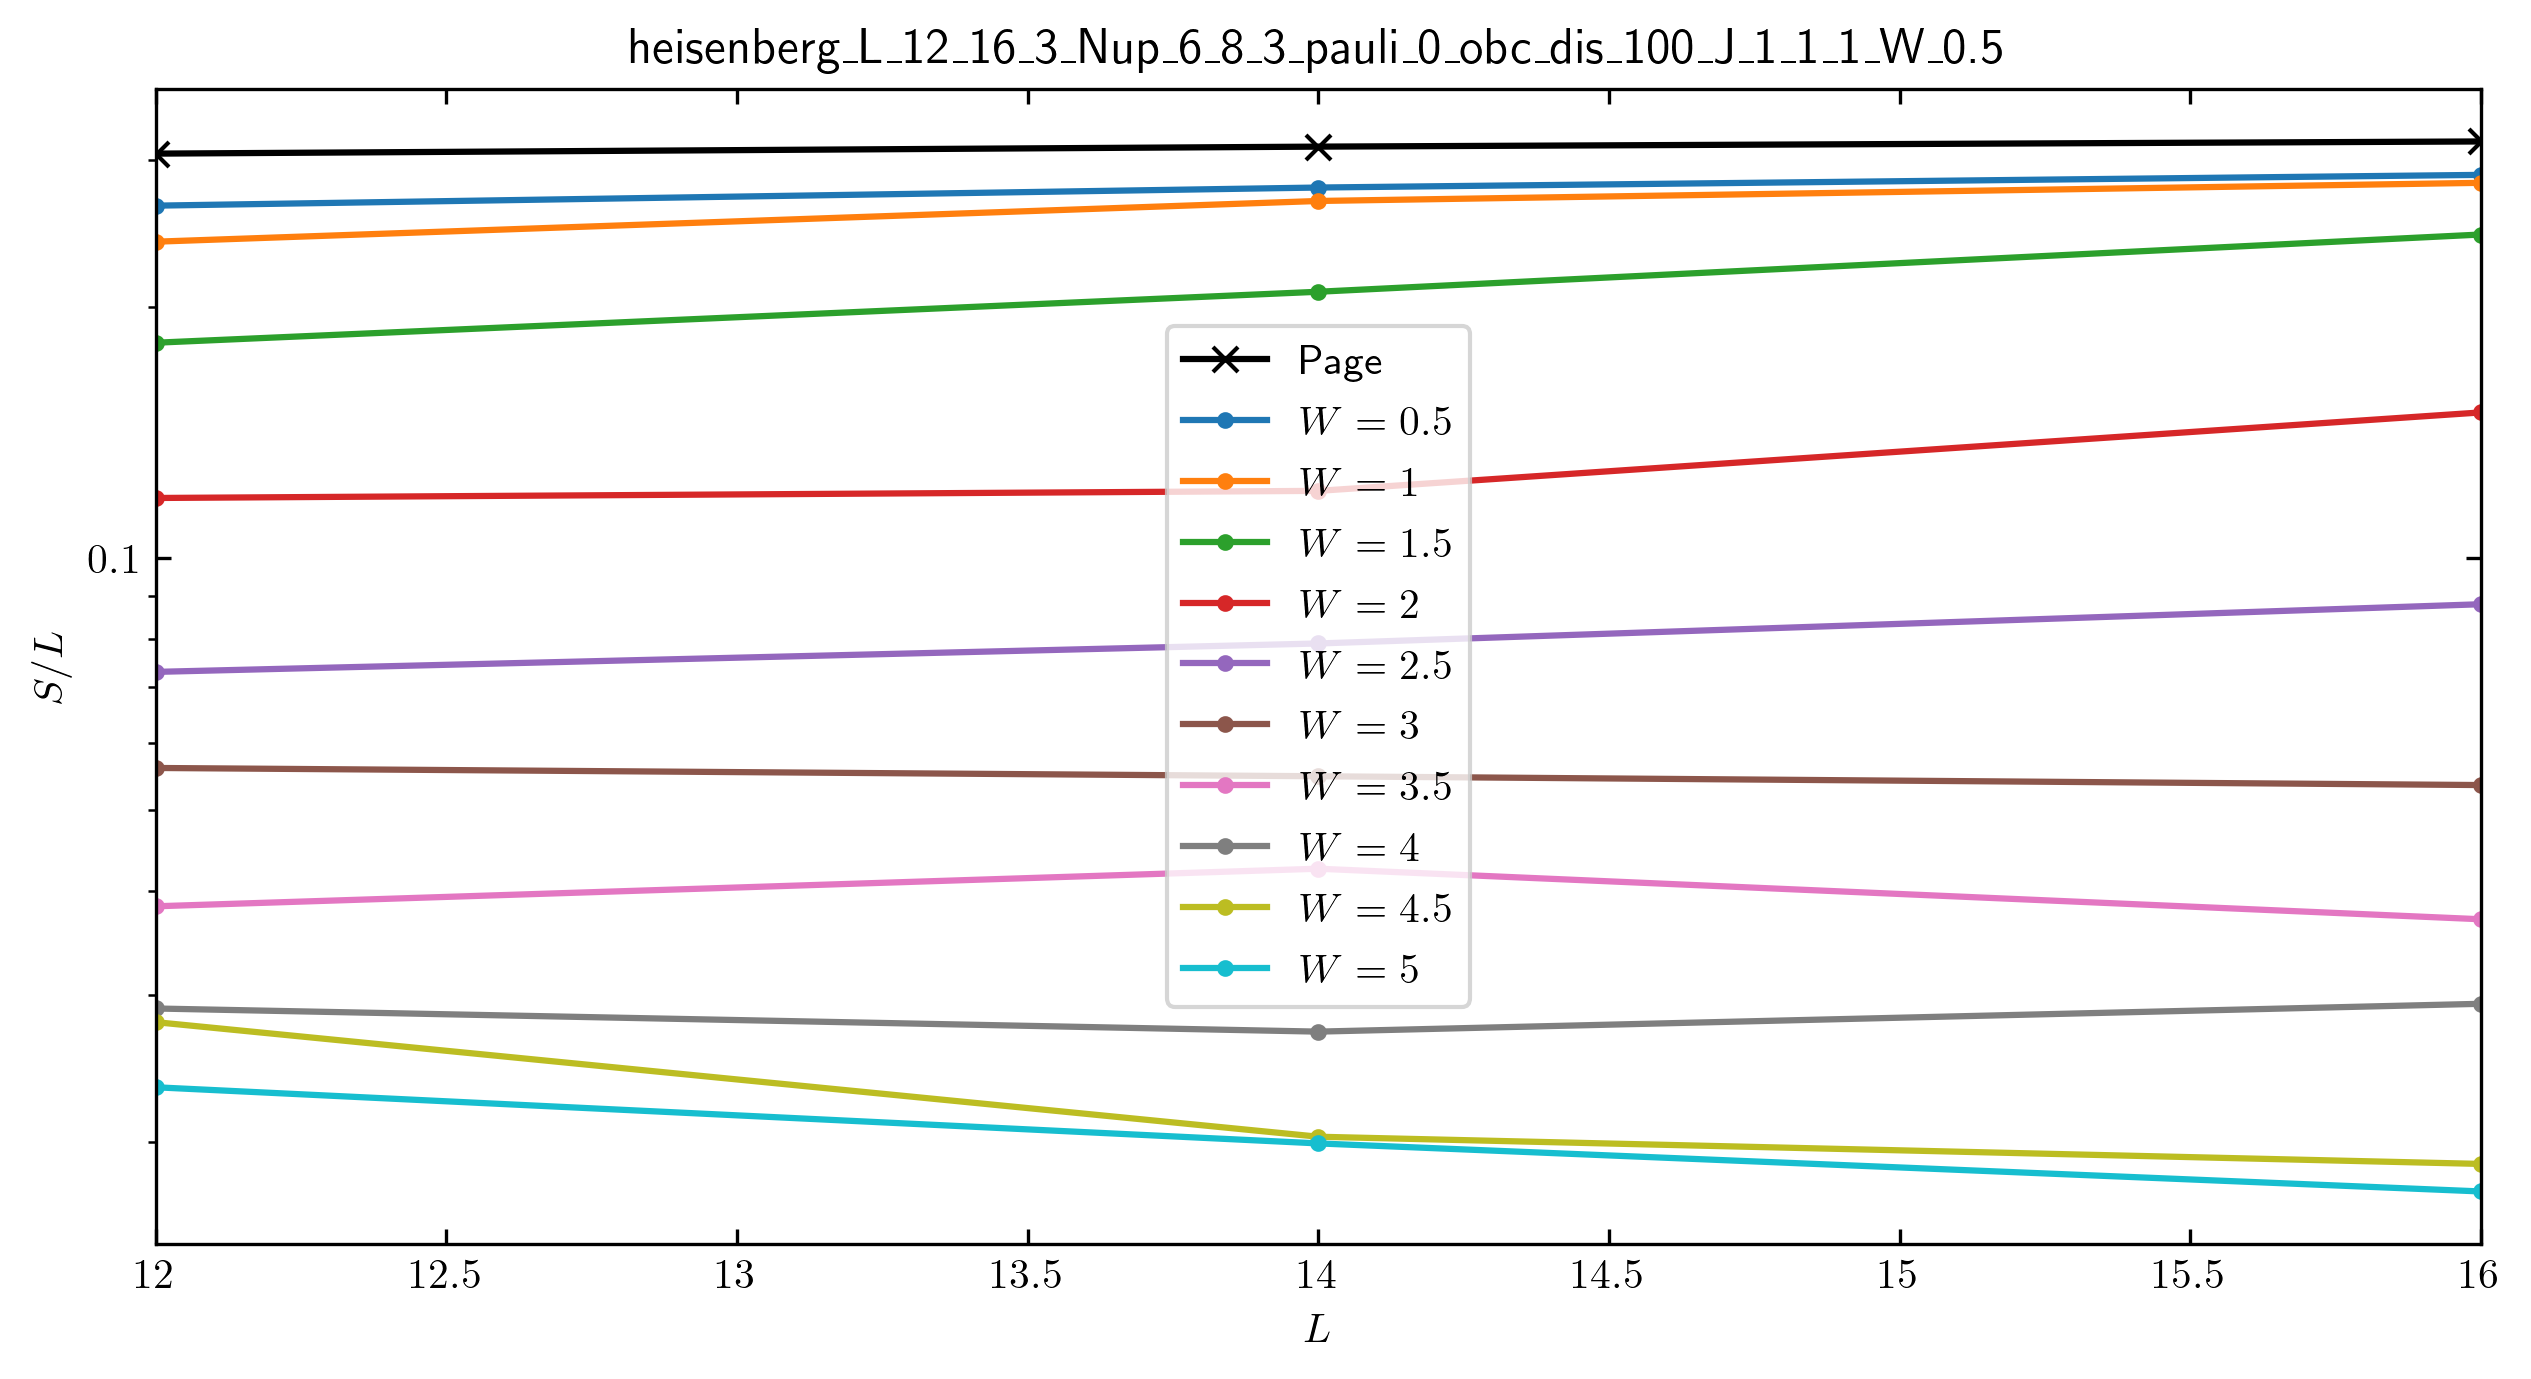
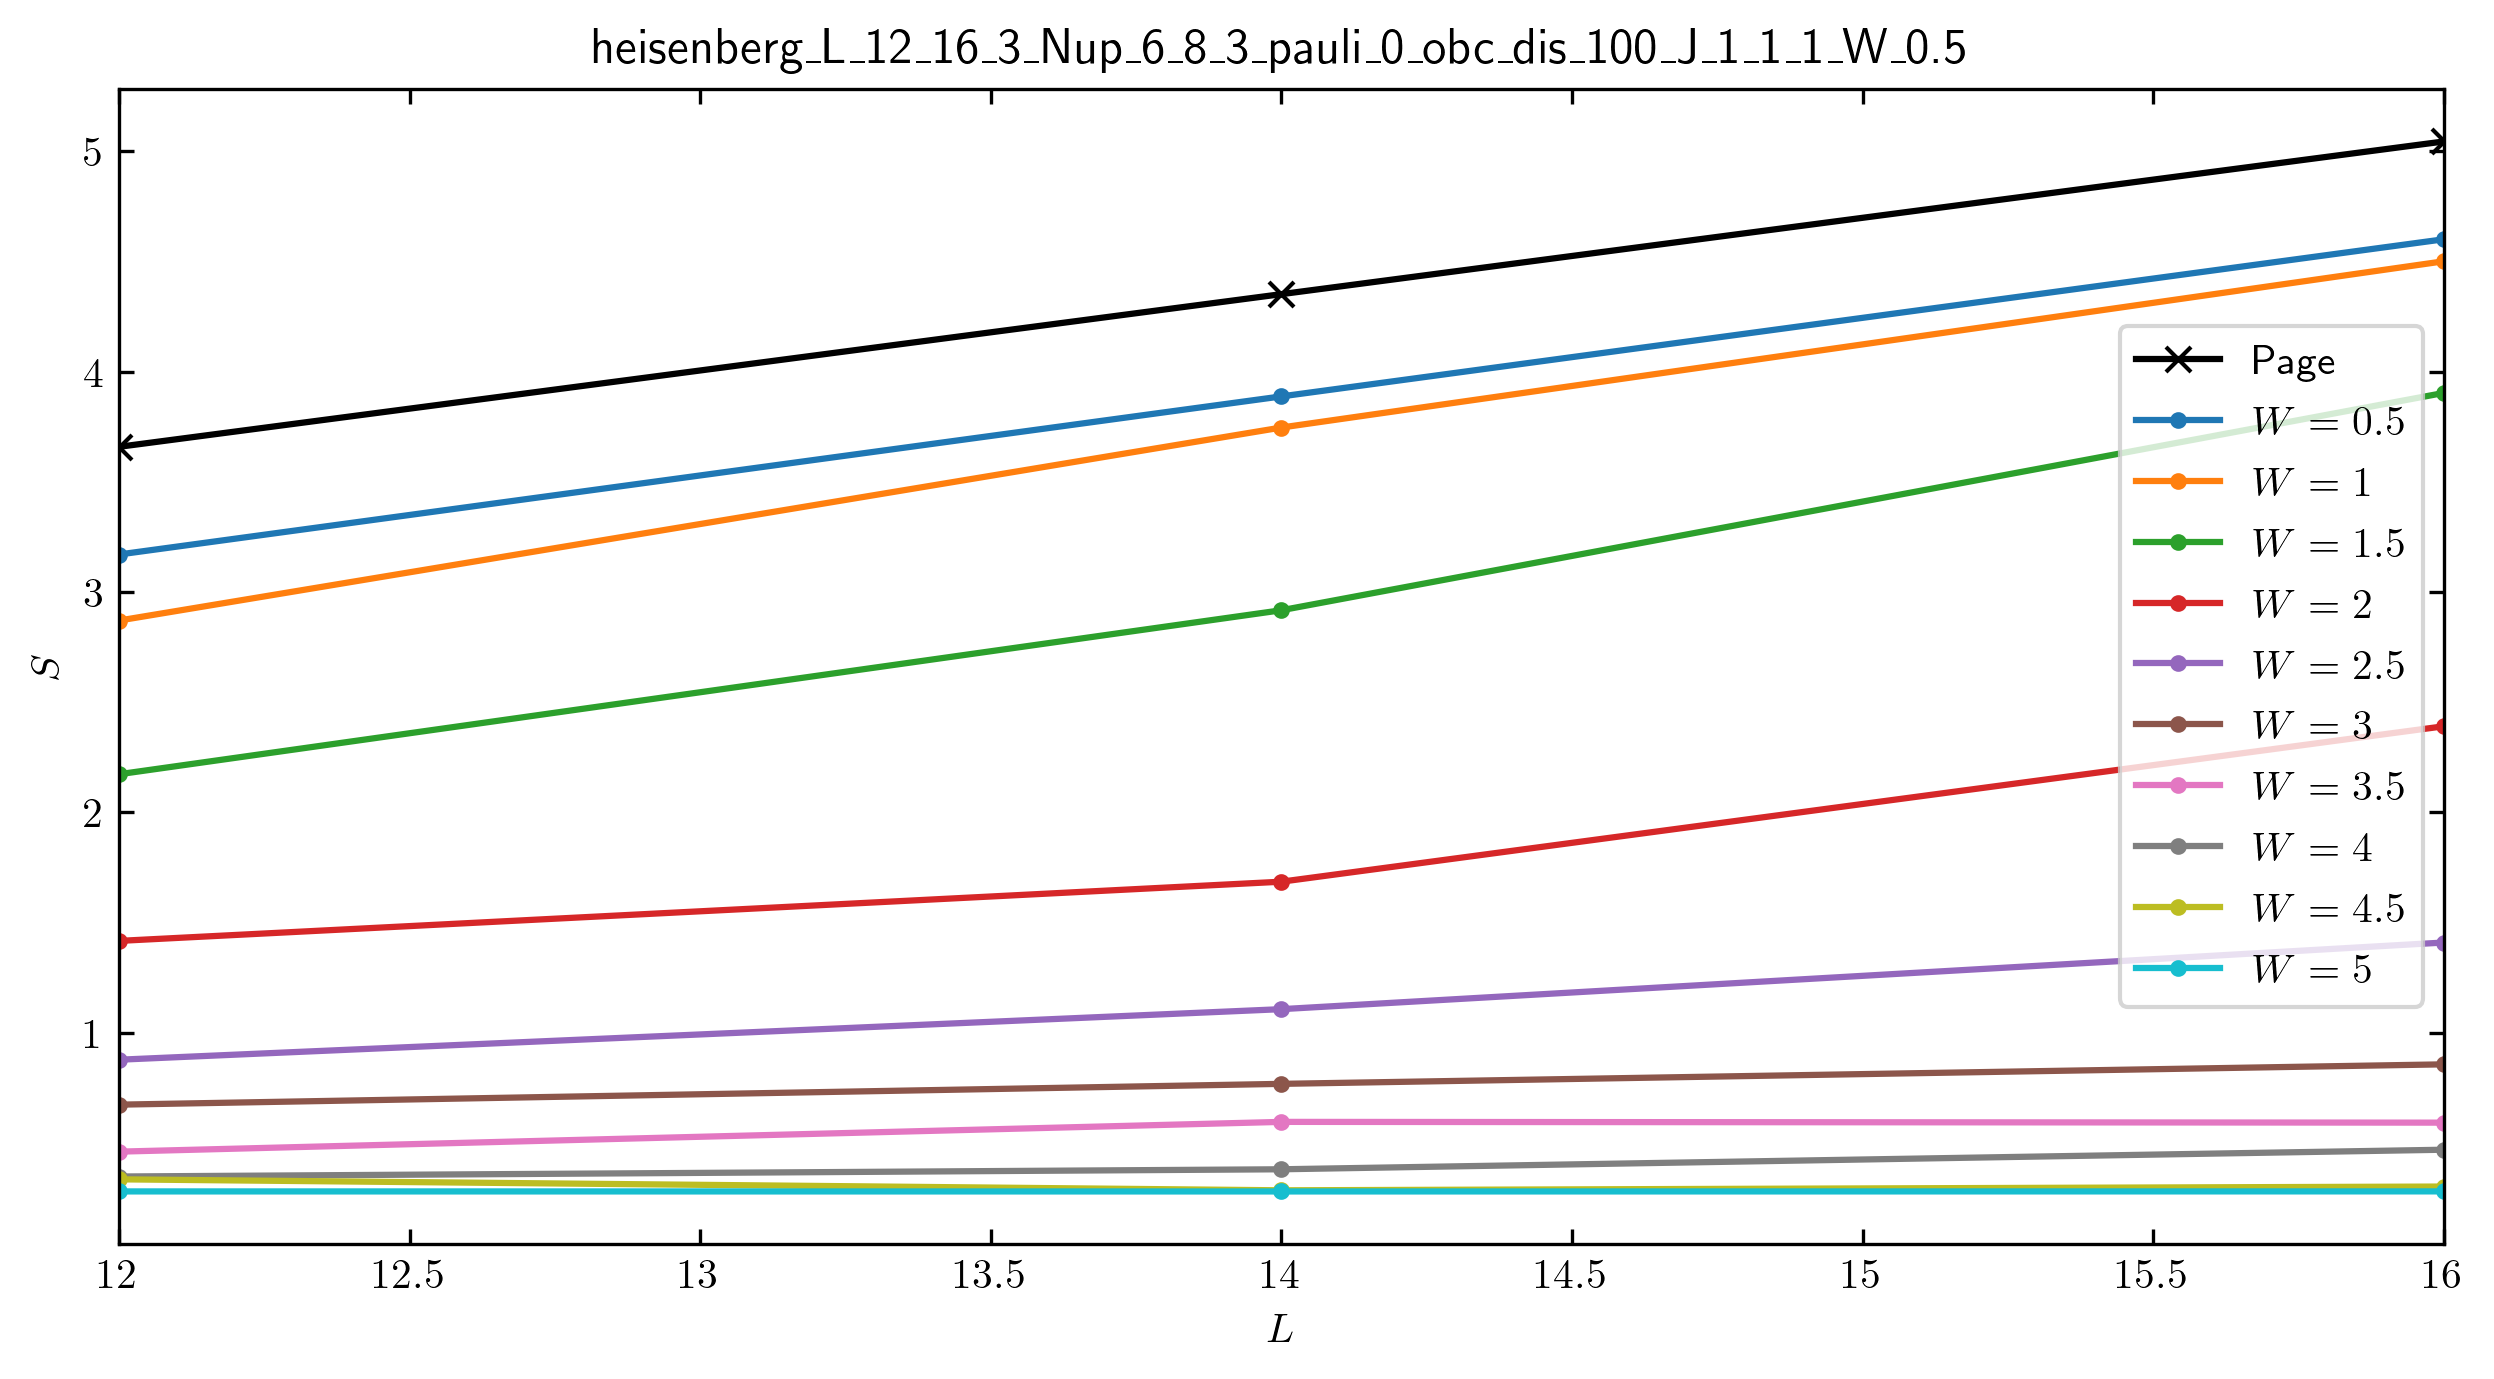
initial S against L plots

diff --git a/plot/ent_mid_L_flow.py b/plot/ent_mid_L_flow.py
@@ -23,7 +23,7 @@ def plot_ent_L_flow(_model, _file1, _file2=None, _file3=None, _file4=None, _file
             S.append(float(row[1]))
             S_page.append(float(row[2]))
     ax0.plot(L, [s for s, l in zip(S_page, L)], 'x-', label="Page", c='k')
-    ax0.plot(L, [s for s, l in zip(S, L)], '.-', label="$\delta=0.1$", c='C0')
+    ax0.plot(L, [s for s, l in zip(S, L)], '.-', label="$W=0.5$", c='C0')
     if _file2 is not None:
         with open(os.path.join(proj_root, 'data/ent_mid_L_flow', _model, _file2), 'r') as csvfile:
             plots = csv.reader(csvfile, delimiter='\t')
@@ -31,7 +31,7 @@ def plot_ent_L_flow(_model, _file1, _file2=None, _file3=None, _file4=None, _file
             for i, row in enumerate(plots):
                 L.append(float(row[0]))
                 S.append(float(row[1]))
-        ax0.plot(L, [s for s, l in zip(S, L)], '.-', label="$\delta=0.5$", c='C1')
+        ax0.plot(L, [s for s, l in zip(S, L)], '.-', label="$W=1$", c='C1')
     if _file3 is not None:
         with open(os.path.join(proj_root, 'data/ent_mid_L_flow', _model, _file3), 'r') as csvfile:
             plots = csv.reader(csvfile, delimiter='\t')
@@ -39,7 +39,7 @@ def plot_ent_L_flow(_model, _file1, _file2=None, _file3=None, _file4=None, _file
             for i, row in enumerate(plots):
                 L.append(float(row[0]))
                 S.append(float(row[1]))
-        ax0.plot(L, [s for s, l in zip(S, L)], '.-', label="$\delta=0.9$", c='C2')
+        ax0.plot(L, [s for s, l in zip(S, L)], '.-', label="$W=1.5$", c='C2')
     if _file4 is not None:
         with open(os.path.join(proj_root, 'data/ent_mid_L_flow', _model, _file4), 'r') as csvfile:
             plots = csv.reader(csvfile, delimiter='\t')
@@ -47,7 +47,7 @@ def plot_ent_L_flow(_model, _file1, _file2=None, _file3=None, _file4=None, _file
             for i, row in enumerate(plots):
                 L.append(float(row[0]))
                 S.append(float(row[1]))
-        ax0.plot(L, [s/l for s, l in zip(S, L)], '.-', label="$J_z=0.2$", c='C3')
+        ax0.plot(L, [s for s, l in zip(S, L)], '.-', label="$W=2$", c='C3')
     if _file5 is not None:
         with open(os.path.join(proj_root, 'data/ent_mid_L_flow', _model, _file5), 'r') as csvfile:
             plots = csv.reader(csvfile, delimiter='\t')
@@ -55,7 +55,7 @@ def plot_ent_L_flow(_model, _file1, _file2=None, _file3=None, _file4=None, _file
             for i, row in enumerate(plots):
                 L.append(float(row[0]))
                 S.append(float(row[1]))
-        ax0.plot(L, [s/l for s, l in zip(S, L)], '.-', label="$W=2.5$", c='C4')
+        ax0.plot(L, [s for s, l in zip(S, L)], '.-', label="$W=2.5$", c='C4')
     if _file6 is not None:
         with open(os.path.join(proj_root, 'data/ent_mid_L_flow', _model, _file6), 'r') as csvfile:
             plots = csv.reader(csvfile, delimiter='\t')
@@ -63,7 +63,7 @@ def plot_ent_L_flow(_model, _file1, _file2=None, _file3=None, _file4=None, _file
             for i, row in enumerate(plots):
                 L.append(float(row[0]))
                 S.append(float(row[1]))
-        ax0.plot(L, [s/l for s, l in zip(S, L)], '.-', label="$W=3$", c='C5')
+        ax0.plot(L, [s for s, l in zip(S, L)], '.-', label="$W=3$", c='C5')
     if _file7 is not None:
         with open(os.path.join(proj_root, 'data/ent_mid_L_flow', _model, _file7), 'r') as csvfile:
             plots = csv.reader(csvfile, delimiter='\t')
@@ -71,7 +71,7 @@ def plot_ent_L_flow(_model, _file1, _file2=None, _file3=None, _file4=None, _file
             for i, row in enumerate(plots):
                 L.append(float(row[0]))
                 S.append(float(row[1]))
-        ax0.plot(L, [s/l for s, l in zip(S, L)], '.-', label="$W=3.5$", c='C6')
+        ax0.plot(L, [s for s, l in zip(S, L)], '.-', label="$W=3.5$", c='C6')
     if _file8 is not None:
         with open(os.path.join(proj_root, 'data/ent_mid_L_flow', _model, _file8), 'r') as csvfile:
             plots = csv.reader(csvfile, delimiter='\t')
@@ -79,7 +79,7 @@ def plot_ent_L_flow(_model, _file1, _file2=None, _file3=None, _file4=None, _file
             for i, row in enumerate(plots):
                 L.append(float(row[0]))
                 S.append(float(row[1]))
-        ax0.plot(L, [s/l for s, l in zip(S, L)], '.-', label="$W=4$", c='C7')
+        ax0.plot(L, [s for s, l in zip(S, L)], '.-', label="$W=4$", c='C7')
     if _file9 is not None:
         with open(os.path.join(proj_root, 'data/ent_mid_L_flow', _model, _file9), 'r') as csvfile:
             plots = csv.reader(csvfile, delimiter='\t')
@@ -87,7 +87,7 @@ def plot_ent_L_flow(_model, _file1, _file2=None, _file3=None, _file4=None, _file
             for i, row in enumerate(plots):
                 L.append(float(row[0]))
                 S.append(float(row[1]))
-        ax0.plot(L, [s/l for s, l in zip(S, L)], '.-', label="$W=4.5$", c='C8')
+        ax0.plot(L, [s for s, l in zip(S, L)], '.-', label="$W=4.5$", c='C8')
     if _file10 is not None:
         with open(os.path.join(proj_root, 'data/ent_mid_L_flow', _model, _file10), 'r') as csvfile:
             plots = csv.reader(csvfile, delimiter='\t')
@@ -95,15 +95,15 @@ def plot_ent_L_flow(_model, _file1, _file2=None, _file3=None, _file4=None, _file
             for i, row in enumerate(plots):
                 L.append(float(row[0]))
                 S.append(float(row[1]))
-        ax0.plot(L, [s/l for s, l in zip(S, L)], '.-', label="$W=5$", c='C9')
-    ax0.legend(loc='center')
+        ax0.plot(L, [s for s, l in zip(S, L)], '.-', label="$W=5$", c='C9')
+    ax0.legend(loc='best')
     ax0.set_xlabel("$L$")
     # ax0.set_xscale('log', basex=2)
     ax0.set_xlim([L[0], L[-1]])
     ax0.tick_params('x', direction='in', bottom=True, top=True)
     ax0.xaxis.set_major_formatter(FormatStrFormatter('$%g$'))
     ax0.set_ylabel("$S$")
-    ax0.set_yscale('log')
+    # ax0.set_yscale('log')
     ax0.tick_params('y', direction='in', left=True, right=True)
     ax0.yaxis.set_major_formatter(FormatStrFormatter('$%g$'))
     ax0.set_title(_file1.replace('ent_mid_L_flow_', '').replace('_', '\_').replace('.dat', ''))
@@ -124,17 +124,17 @@ def plot_ent_L_flow(_model, _file1, _file2=None, _file3=None, _file4=None, _file
 
 if __name__ == "__main__":
 
-    model = 'spin2021'
-    file1 = 'ent_mid_L_flow_spin2021_L_8_24_5_Nup_1_1_5_obc_J_1_1_1_T0_1_T1_1_delta_0.1_W_2.dat'
-    # file2 = 'ent_mid_L_flow_spin2021_L_8_24_5_Nup_4_12_5_obc_J_1_1_1_T0_1_T1_1_delta_0.5_W_2.dat'
-    # file3 = 'ent_mid_L_flow_spin2021_L_8_24_5_Nup_4_12_5_obc_J_1_1_1_T0_1_T1_1_delta_0.9_W_2.dat'
-    # file4 = 'ent_mid_L_flow_heisenberg_L_10_16_4_Nup_5_8_4_pauli_0_obc_dis_1000_J_1_1_0.2_W_5.dat'
-    # file5 = 'ent_mid_L_flow_heisenberg_L_12_16_3_Nup_6_8_3_pauli_0_obc_dis_100_J_1_1_1_W_2.5.dat'
-    # file6 = 'ent_mid_L_flow_heisenberg_L_12_16_3_Nup_6_8_3_pauli_0_obc_dis_100_J_1_1_1_W_3.dat'
-    # file7 = 'ent_mid_L_flow_heisenberg_L_12_16_3_Nup_6_8_3_pauli_0_obc_dis_100_J_1_1_1_W_3.5.dat'
-    # file8 = 'ent_mid_L_flow_heisenberg_L_12_16_3_Nup_6_8_3_pauli_0_obc_dis_100_J_1_1_1_W_4.dat'
-    # file9 = 'ent_mid_L_flow_heisenberg_L_12_16_3_Nup_6_8_3_pauli_0_obc_dis_100_J_1_1_1_W_4.5.dat'
-    # file10 = 'ent_mid_L_flow_heisenberg_L_12_16_3_Nup_6_8_3_pauli_0_obc_dis_100_J_1_1_1_W_5.dat'
+    model = 'heisenberg'
+    file1 = 'ent_mid_L_flow_heisenberg_L_12_16_3_Nup_6_8_3_pauli_0_obc_dis_100_J_1_1_1_W_0.5.dat'
+    file2 = 'ent_mid_L_flow_heisenberg_L_12_16_3_Nup_6_8_3_pauli_0_obc_dis_100_J_1_1_1_W_1.dat'
+    file3 = 'ent_mid_L_flow_heisenberg_L_12_16_3_Nup_6_8_3_pauli_0_obc_dis_100_J_1_1_1_W_1.5.dat'
+    file4 = 'ent_mid_L_flow_heisenberg_L_12_16_3_Nup_6_8_3_pauli_0_obc_dis_100_J_1_1_1_W_2.dat'
+    file5 = 'ent_mid_L_flow_heisenberg_L_12_16_3_Nup_6_8_3_pauli_0_obc_dis_100_J_1_1_1_W_2.5.dat'
+    file6 = 'ent_mid_L_flow_heisenberg_L_12_16_3_Nup_6_8_3_pauli_0_obc_dis_100_J_1_1_1_W_3.dat'
+    file7 = 'ent_mid_L_flow_heisenberg_L_12_16_3_Nup_6_8_3_pauli_0_obc_dis_100_J_1_1_1_W_3.5.dat'
+    file8 = 'ent_mid_L_flow_heisenberg_L_12_16_3_Nup_6_8_3_pauli_0_obc_dis_100_J_1_1_1_W_4.dat'
+    file9 = 'ent_mid_L_flow_heisenberg_L_12_16_3_Nup_6_8_3_pauli_0_obc_dis_100_J_1_1_1_W_4.5.dat'
+    file10 = 'ent_mid_L_flow_heisenberg_L_12_16_3_Nup_6_8_3_pauli_0_obc_dis_100_J_1_1_1_W_5.dat'
 
-    # plot_ent_L_flow(model, file1, file2, file3, file4, file5, file6, file7, file8, file9, file10, _save=True)
-    plot_ent_L_flow(model, file1, _save=True)
+    plot_ent_L_flow(model, file1, file2, file3, file4, file5, file6, file7, file8, file9, file10, _save=True)
+    # plot_ent_L_flow(model, file1, _save=True)

diff --git a/plot/ent_L_flow.py b/plot/ent_L_flow.py
@@ -118,7 +118,7 @@ def plot_ent_L_flow(_model, _file1, _file2=None, _file3=None, _file4=None, _mult
 if __name__ == "__main__":
 
     model = 'spin2021'
-    file1 = 'ent_L_flow_spin2021_L_6_20_8_Nup_1_1_8_obc_dis_100_J_1_1_1_T0_1_T1_1_delta_0.1_W_2.dat'
+    file1 = 'ent_L_flow_spin2021_L_6_24_10_Nup_1_1_10_obc_dis_100_J_1_1_1_T0_1_T1_1_delta_0.1_W_2.dat'
     # file2 = 'ent_L_flow_spin2021_L_8_obc_dis_100_J_1_1_1_T0_1_T1_1_delta_0_1_11_W_2.dat'
     # file3 = 'ent_L_flow_spin2021_L_10_obc_dis_100_J_1_1_1_T0_1_T1_1_delta_0_1_11_W_2.dat'
     # file4 = 'ent_L_flow_spin2021_L_12_obc_dis_100_J_1_1_1_T0_1_T1_1_delta_0_1_11_W_2.dat'

diff --git a/README.rst b/README.rst
@@ -67,7 +67,7 @@ The ``plot`` scripts:
 
 * **ent_mid_L_flow** -- entanglement entropy length evolution (cf. Fig.3c of `[Luitz2015] <https://arxiv.org/pdf/1411.0660.pdf>`__)
 
-.. image:: figures/ent_mid_L_flow/heisenberg/ent_mid_L_flow_heisenberg_L_12_16_3_Nup_6_8_3_pauli_0_obc_dis_100_J_1_1_1_W_0.5_comparison.png
+.. image:: figures/ent_mid_L_flow/heisenberg/ent_mid_L_flow_heisenberg_L_12_16_3_Nup_6_8_3_pauli_0_obc_dis_100_J_1_1_1_W_0.5_comparison_original.png
 	:align: center
 	:width: 80%
 
